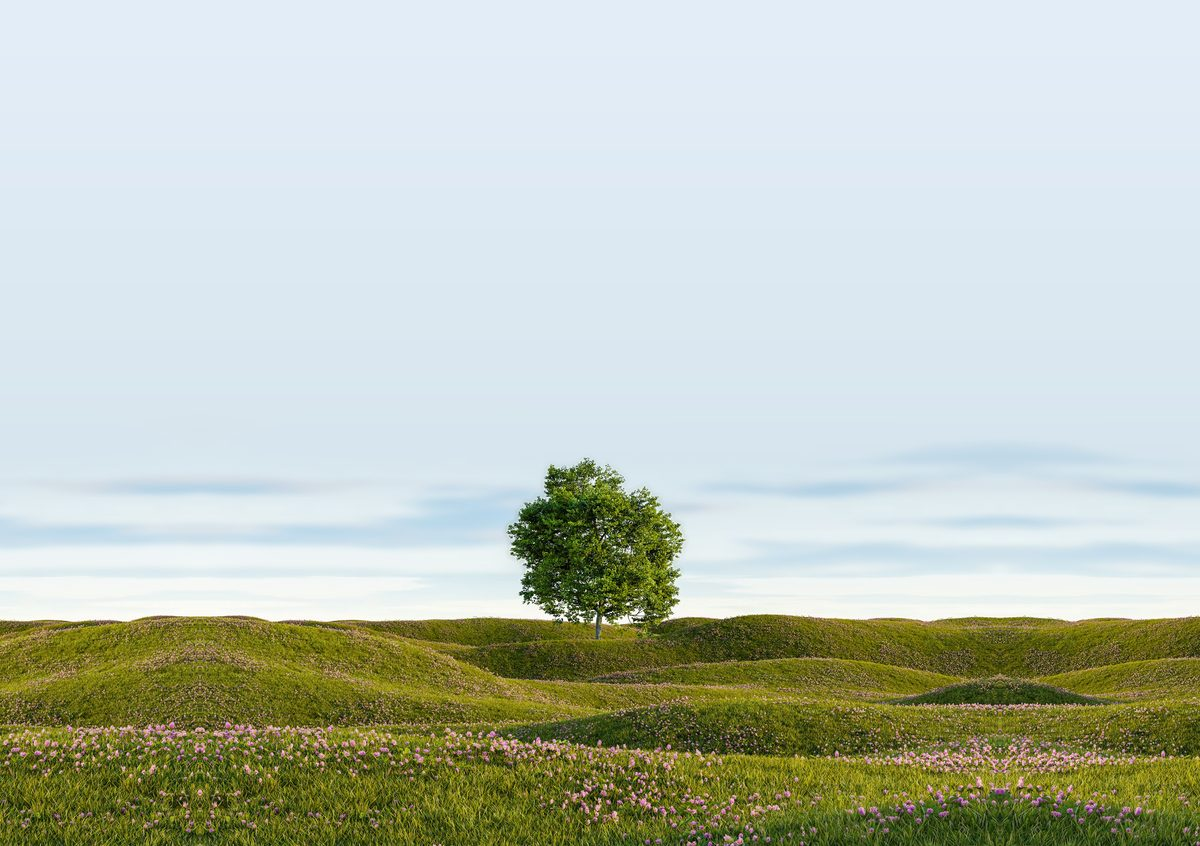
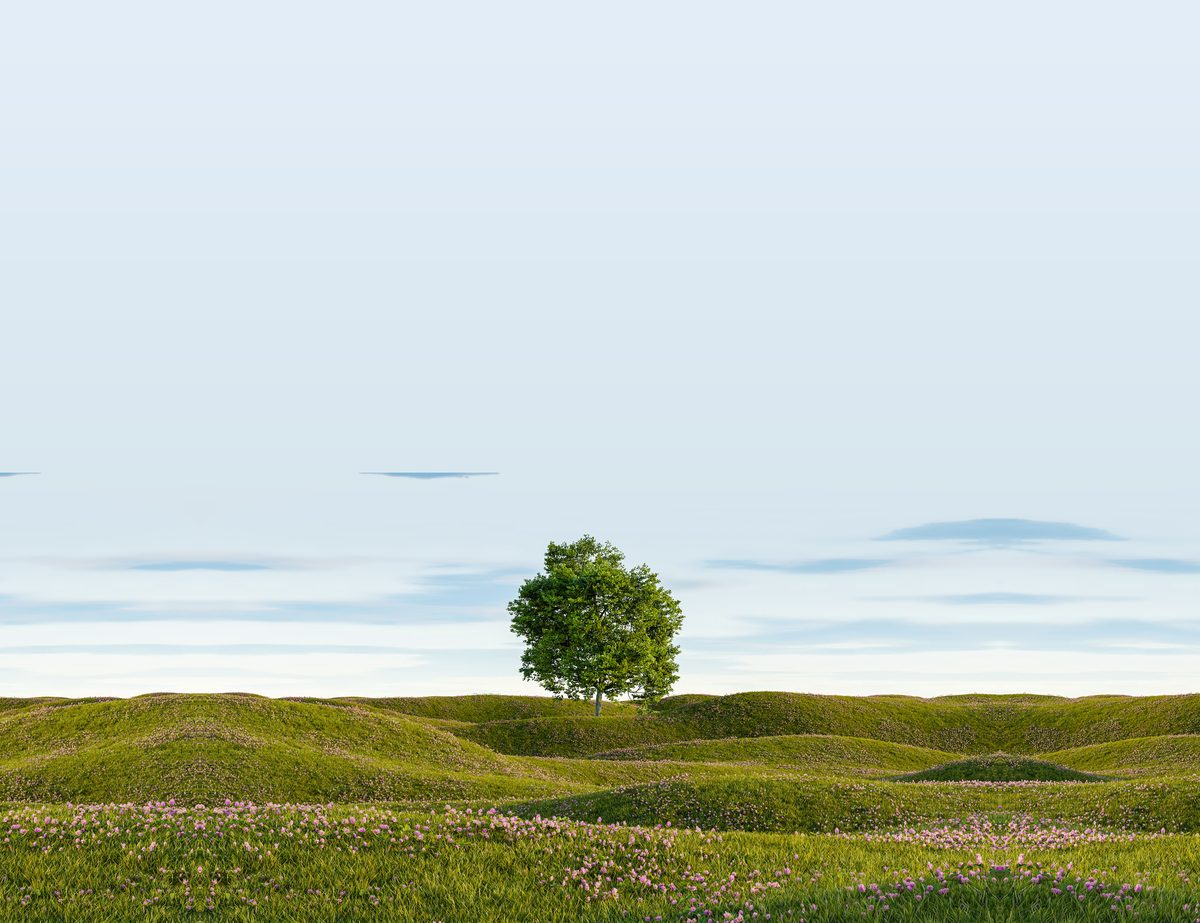
Landing hero: tree below the buttons, crisp leaves without a halo, gentler clouds, quiet note without a pill
Claude-Session: https://claude.ai/code/session_01Fhy9fFWJZtEjei2HQYWVj3

Changed region(s): [[0.0, 0.5225, 1.0, 1.0], [0.3083, 0.4917, 0.4008, 0.5225]]

diff --git a/src/app/[lang]/page.tsx b/src/app/[lang]/page.tsx
@@ -46,8 +46,8 @@ export default async function Home() {
           <FadeIn stagger={120} className="mx-auto flex w-full max-w-4xl flex-1 flex-col items-center px-5 pb-40 pt-[6vh] text-center sm:px-8 sm:pt-[8vh]">
             <h1 className="text-[3rem] [text-shadow:0_0_24px_rgb(255_255_255/0.7)] sm:text-[4.4rem] lg:text-[5.4rem]">{t.hero.title}</h1>
             <Scribble className="mx-auto mt-1 h-5 w-52 text-ink/80 sm:w-72" />
-            <p className="mx-auto mt-6 max-w-[34rem] text-[1.18rem] font-medium leading-relaxed text-ink [text-shadow:0_0_14px_rgb(255_255_255/0.95),0_0_3px_rgb(255_255_255/0.9)]">{t.hero.lead}</p>
-            <div className="mt-8 flex flex-wrap items-center justify-center gap-3">
+            <p className="mx-auto mt-5 max-w-[34rem] text-[1.18rem] font-medium leading-relaxed text-ink [text-shadow:0_0_14px_rgb(255_255_255/0.95),0_0_3px_rgb(255_255_255/0.9)]">{t.hero.lead}</p>
+            <div className="mt-7 flex flex-wrap items-center justify-center gap-3">
               <Link href={signup} className="inline-flex min-h-12 items-center rounded-full bg-night px-7 text-[1.02rem] font-medium text-surface shadow-[0_10px_30px_-12px_rgb(28_29_26/0.5)] transition-colors hover:bg-olive-deep">
                 {t.hero.cta}
               </Link>
@@ -55,7 +55,7 @@ export default async function Home() {
                 {t.hero.secondary}
               </a>
             </div>
-            <p className="mt-4 rounded-full bg-white/70 px-4 py-1 text-[0.95rem] font-medium text-ink/85 backdrop-blur-sm">{t.hero.note}</p>
+            <p className="mt-3.5 text-[0.95rem] font-medium text-ink/70 [text-shadow:0_0_10px_rgb(255_255_255/0.9)]">{t.hero.note}</p>
           </FadeIn>
         </section>
 
